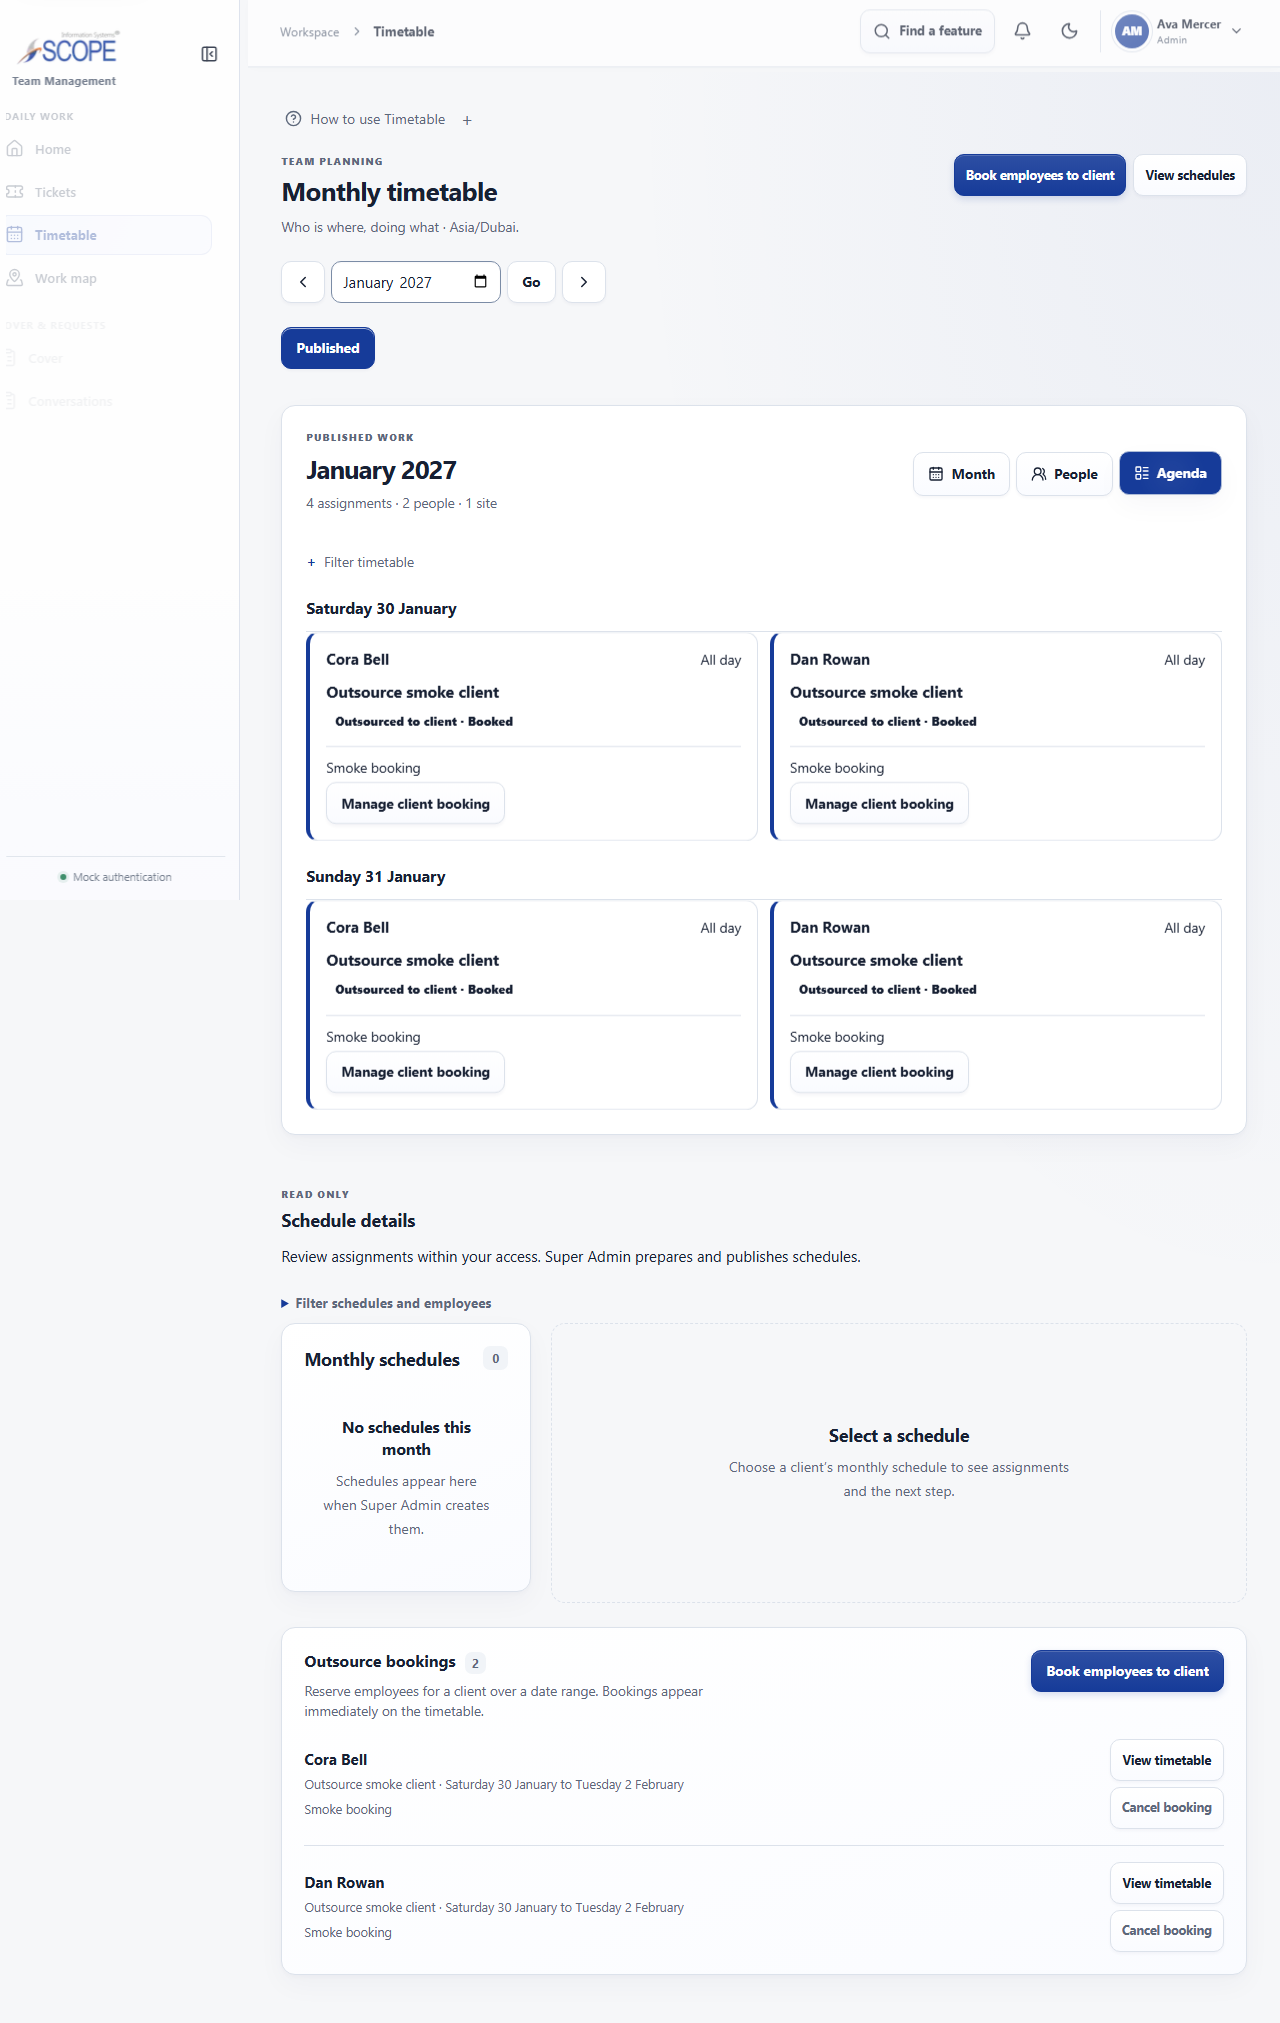
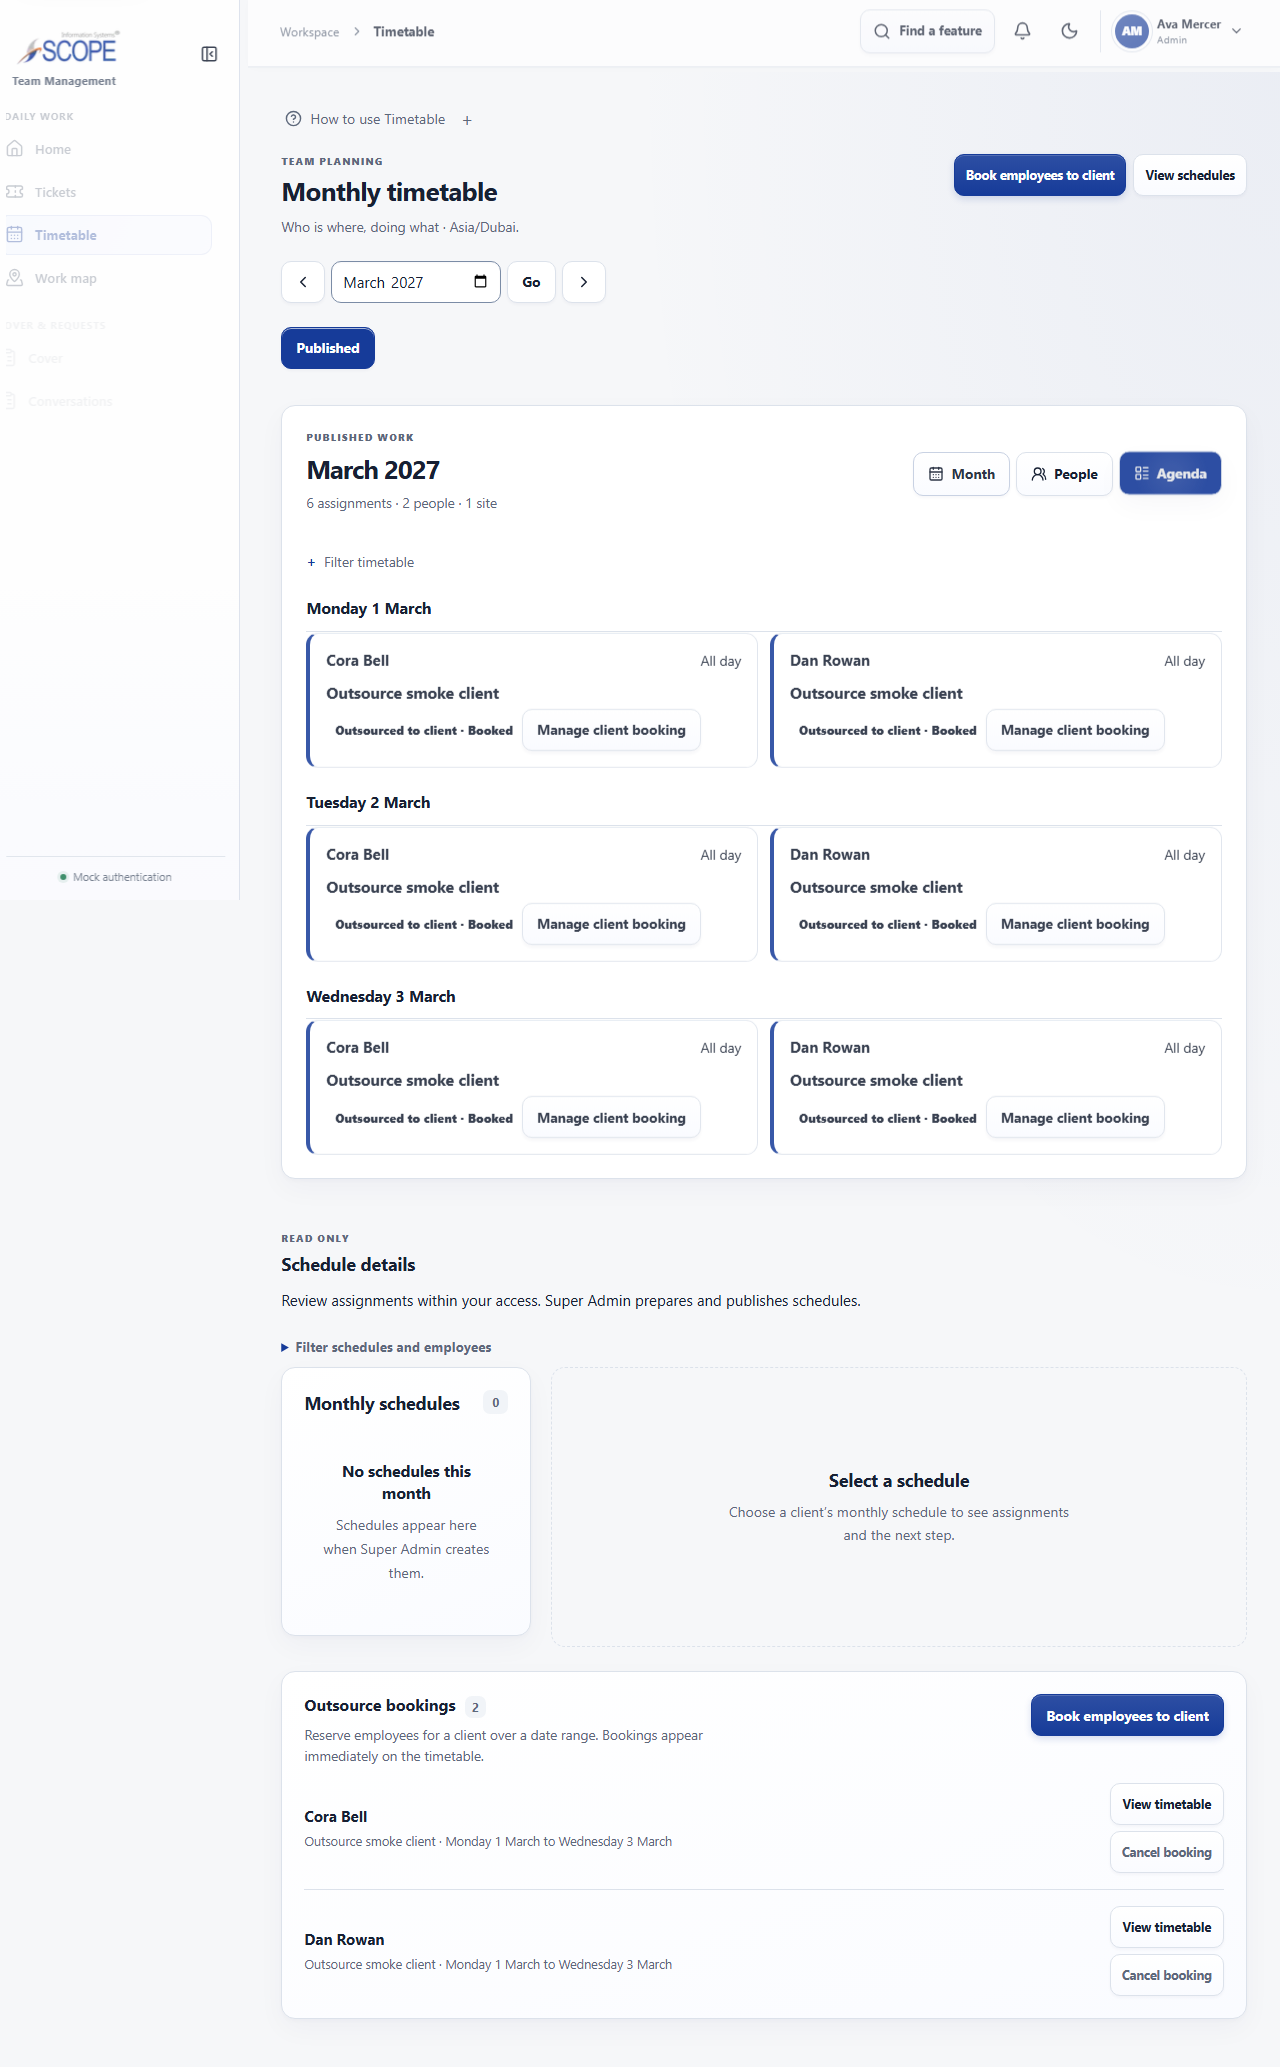
Record deployed client bookings and confirm target-month navigation

diff --git a/DOCX/phase-reports/SCOPEIS_CLIENT_BOOKINGS_2026_10_16.md b/DOCX/phase-reports/SCOPEIS_CLIENT_BOOKINGS_2026_10_16.md
@@ -19,3 +19,7 @@ Earlier smoke diagnostics found a Drizzle array parameter serialization issue, t
 [Migration receipt](evidence/client-bookings-2026-10-16/production-migration.json): additive migration `0017_client_outsource_bookings` is applied. Canonical state is D, 18 migrations and 42 tables. All **838 existing rows**, all 41 existing table schemas and the historical 17-entry ledger are preserved. A fresh complete row/schema/ledger backup was saved privately and read back before applying the transaction. No production business record was created. Existing application-role SELECT/INSERT/UPDATE privileges cover the new table without changing grants.
 
 The existing GitHub/Vercel integration publishes the final `main` commit. Exact post-push deployment and ordinary production-page observations are recorded in the private release receipt at `C:/Users/m.kassab/.codex/backups/scopeis/client-bookings-2026-10-16/release.json`, so no extra documentation commit is needed merely to name its own hash. No production booking form is submitted during the read-only deployment check. Existing unrelated `test.py` remains untouched and excluded.
+
+## Source delivery and production smoke
+
+Application `20afaa5e365fa56b5b3458f32572a69d5e53b347` is pushed to `origin/main`. GitHub reports the exact-source [Vercel deployment](https://vercel.com/mu-ka7/scopeis-team-management-system/DkejABi9F6QWVE2ZF88ffGcNcQpf) successful. A normal existing Raafat Super Admin session loads the canonical Timetable and opens the new booking dialog with the active Client picker, searchable Employee checkboxes and both dates. No production booking is submitted. A bounded [navigation replay](evidence/client-bookings-2026-10-16/navigation-smoke.json) reuses the successful local application build, explicitly waits for the March URL and heading, then verifies Agenda and cancellation. It runs no additional build or test suite. The updated screenshot shows the newly created March booking. Subsequent evidence-only source changes preserve the deployed application implementation.

diff --git a/DOCX/project-memory/IMPLEMENTATION_STATUS_TRACKER.md b/DOCX/project-memory/IMPLEMENTATION_STATUS_TRACKER.md
@@ -2,7 +2,7 @@
 
 ## Client outsource bookings, 16 October 2026
 
-Implementation and bounded smoke verification are complete under [the release report](../phase-reports/SCOPEIS_CLIENT_BOOKINGS_2026_10_16.md). Admin/Super Admin can book multiple scoped employees to a client for inclusive calendar dates and cancel with retained history. Timetable/cover/leave conflict handling is connected. Twelve smoke observations, compilation/build and changed-code lint pass; full suites were omitted at the owner’s request. Production additive migration0017 preserves all838 existing rows and41 existing table schemas. Exact final-main deployment observations are recorded in the private post-push receipt named in the report.
+Status `COMPLETED`. Application `20afaa5e365fa56b5b3458f32572a69d5e53b347` is pushed and deployed, with the new dialog observed through a normal Super Admin session. Implementation and bounded smoke verification are complete under [the release report](../phase-reports/SCOPEIS_CLIENT_BOOKINGS_2026_10_16.md). Admin/Super Admin can book multiple scoped employees to a client for inclusive calendar dates and cancel with retained history. Timetable/cover/leave conflict handling is connected. Twelve smoke observations, compilation/build and changed-code lint pass; full suites were omitted at the owner’s request. Production additive migration0017 preserves all838 existing rows and41 existing table schemas. Exact final-main deployment observations are recorded in the private post-push receipt named in the report.
 
 
 ## Presentation, practical map and vacation review, 16 October 2026
